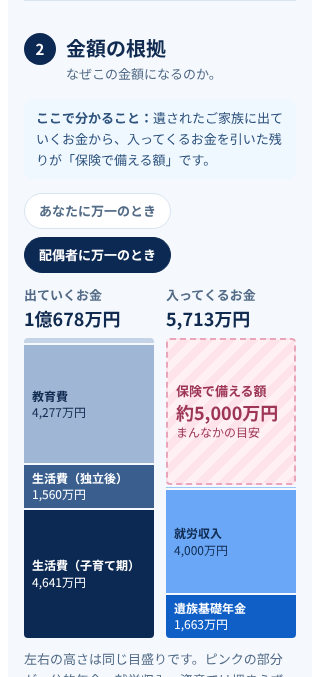
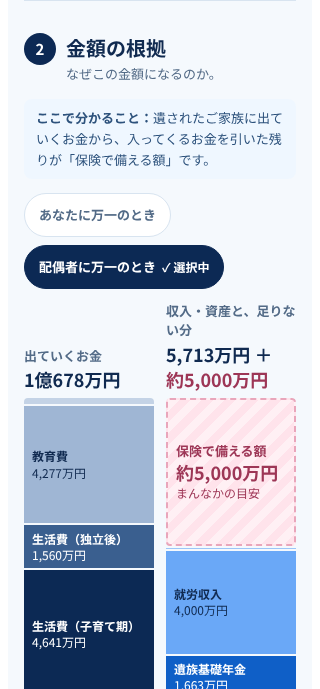
fix(result): UX 33回目の直し（保障の線の前提・不足の列の名前・タブの選択中と高さ）
- いつ見直すか：いまの保障の横線に、今の額のまま続く前提と「満期・更新は反映していません」を図の前後で書く
- 金額の根拠：右の列を「収入・資産と、足りない分」にし、合計も2つに分けて書く
- あなた／配偶者のタブ：選んでいる側に「✓ 選択中」、高さ 44px

Claude-Session: https://claude.ai/code/session_01Fzmq9nUFPsWJRPivmmEeQQ

diff --git a/app/result/NeedBand.tsx b/app/result/NeedBand.tsx
@@ -105,6 +105,7 @@ export function NeedBand({
   const later = laterIndex > 0 ? points[laterIndex] : null;
   const maxHigh = Math.max(...points.map((p) => p.high));
   const showChart = n >= 2 && maxHigh > 0;
+  const hasCoverageLine = coverage !== null && coverage > 0;
   const scale = linearScale(0, Math.max(maxHigh, coverage ?? 0));
   const years = points.map((p) => p.year);
   const indexOf = (year: number) => years.indexOf(year);
@@ -175,6 +176,14 @@ export function NeedBand({
         )}
       </div>
 
+      {/*
+        いまの保障の線は、契約がその年まで続くと読まれないよう、図の前後で前提を言う（UX 33回目。ラボと同じ誤読）
+      */}
+      {showChart && hasCoverageLine && (
+        <p className={r.note}>
+          いまの保障は、今の額のまま続くものとして横線で描いています。
+        </p>
+      )}
       {showChart && (
         <ChartFrame
           labelEvery={n > 25 ? 10 : 5}
@@ -244,6 +253,7 @@ export function NeedBand({
           {drops.length > 0 ? "点線：公的年金が変わる年。" : ""}
           {uni.length > 0 ? "灰色：大学の学費の時期。" : ""}
           縦の線：その年の幅。
+          {hasCoverageLine && "いまの保障額を一定として表示。満期・更新は反映していません。"}
         </p>
       )}
 

diff --git a/app/result/BalanceColumns.tsx b/app/result/BalanceColumns.tsx
@@ -37,7 +37,7 @@ function Column({
   top,
 }: {
   head: string;
-  total: string;
+  total: ReactNode;
   items: BalanceItem[];
   kind: "out" | "in";
   scaleMax: number;
@@ -175,7 +175,8 @@ export function BalanceColumns({
           total={formatMan(expenseTotal)}
         />
         <Column
-          head="入ってくるお金"
+          // 不足の世帯では、右の列に足りない分も積むので、収入に読まれないよう列の名前で言う（UX 33回目）
+          head={short ? "収入・資産と、足りない分" : "入ってくるお金"}
           items={income}
           kind="in"
           scaleMax={scaleMax}
@@ -190,7 +191,19 @@ export function BalanceColumns({
               </div>
             ) : null
           }
-          total={formatMan(incomeTotal)}
+          // 列の名前に合わせ、合計も「収入・資産 ＋ 足りない分」と2つに分けて書く（UX 33回目）
+          total={
+            short ? (
+              <>
+                <RangeText text={formatMan(incomeTotal)} /> ＋{" "}
+                <span className={r.eqGap}>
+                  <RangeText text={fmt(rawNeed)} />
+                </span>
+              </>
+            ) : (
+              formatMan(incomeTotal)
+            )
+          }
         />
       </div>
       <p className={r.note}>

diff --git a/app/result/report.module.css b/app/result/report.module.css
@@ -155,8 +155,9 @@
   margin: 0 0 12px;
 }
 
+/* 指で押せる高さ 44px（UX 33回目） */
 .tab {
-  min-height: 36px;
+  min-height: 44px;
   font: inherit;
   font-size: 13px;
   font-weight: var(--font-weight-bold);
@@ -200,7 +201,6 @@
   line-height: 1.4;
   font-weight: var(--font-weight-bold);
   margin: 0 0 6px;
-  white-space: nowrap;
 }
 
 .stack {
@@ -544,4 +544,11 @@
   stroke: var(--color-surface);
   stroke-width: 4px;
   stroke-linejoin: round;
+}
+
+/* 選んでいる側の札。色だけに頼らず「✓ 選択中」の字でも示す（UX 33回目） */
+.tabState {
+  margin-left: 6px;
+  font-size: 12px;
+  font-weight: var(--font-weight-bold);
 }

diff --git a/app/result/CaseTabs.tsx b/app/result/CaseTabs.tsx
@@ -48,6 +48,7 @@ export function CaseTabs({ tabs, label }: { tabs: CaseTab[]; label: string }) {
             type="button"
           >
             {t.label}
+            {i === current && <span className={r.tabState}>✓ 選択中</span>}
           </button>
         ))}
       </div>

diff --git a/tasks/current.md b/tasks/current.md
@@ -275,5 +275,6 @@
 - 図の色：`--chart-out-*`（ネイビー）・`--chart-in-*`（ブルー）を足した。緑は使わない
 - 確認：不足・組み替え・単身 × 320・390・1280px で横スクロールなし・12px 未満の字なし・ページエラーなし。`#key-premise` の上端（e2e の基準）は 320px 1659・390px 1643px（不足）。スクショ `design/screenshots/report-*`
 - 2026-10-18（Mac mini）：545938f で request-qa は qa-pass。UX 33回目は修正依頼：直さないと誤る1件（03 の保障の線が将来まで続き契約が続くように見える、帯が予測に見える）、分かりにくい3件（02 の積み上げ棒で不足分が「入ってくるお金」に見える、本人／配偶者タブに選択中の印がない、タブの高さ 36px）。「働かない場合」が最初の2画面を 160〜185px 超えるのは許容と判断
-- 次の1手：03 の図の直前に固定する条件を書き、保障の線の下に「いまの保障額を一定として表示。満期・更新は反映していない」を常に出す → 残り3件 → UX 再レビュー
+- UX 33回目の修正：03 は図の前に「いまの保障は、今の額のまま続くものとして横線で描いています」、図の下に「いまの保障額を一定として表示。満期・更新は反映していません」（保障の線を描くとき）。02 の右の列は「収入・資産と、足りない分」、合計も「2,713万円 ＋ 約8,400万円」と分けた。タブは選んでいる側に「✓ 選択中」、高さ 44px
+- 次の1手：UX 再レビュー（coordinator 経由）を通してマージする
 
